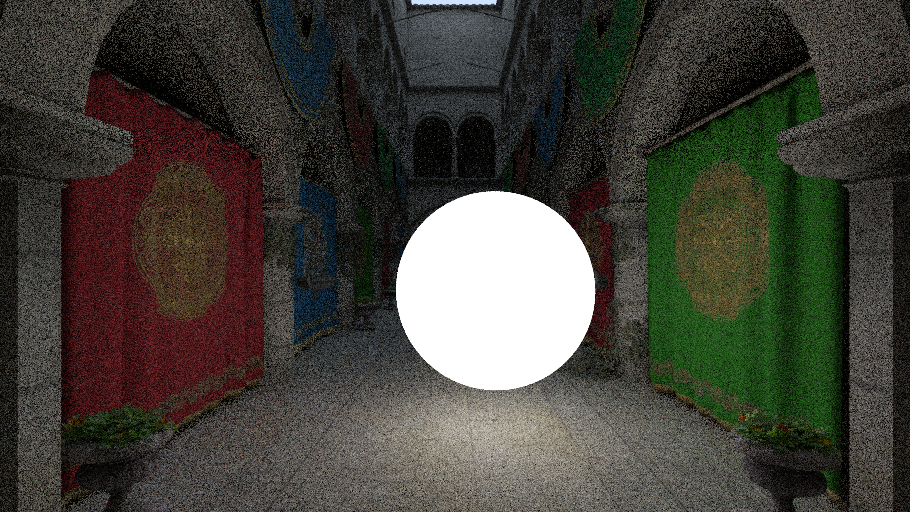
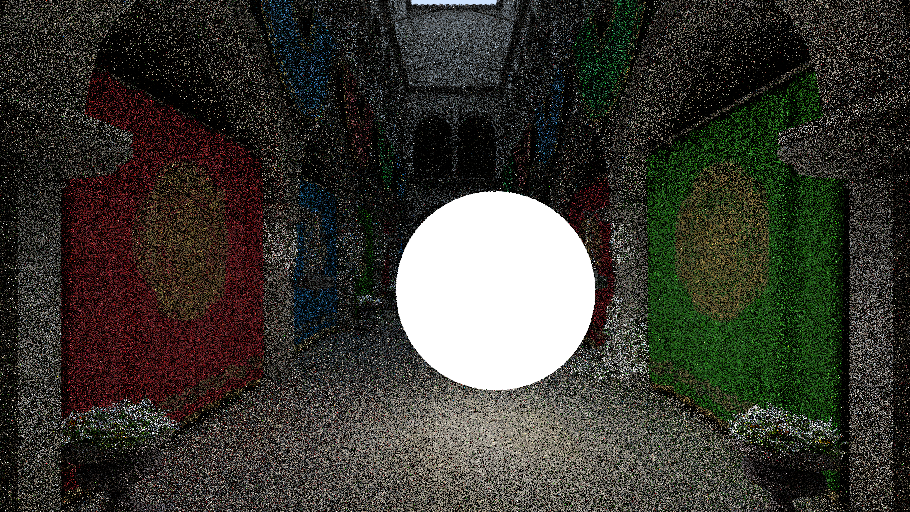
Added pdfs for triangle and sphere

diff --git a/src/engine/renderer.rs b/src/engine/renderer.rs
@@ -3,6 +3,7 @@ use crate::engine::render_context::*;
 use crate::engine::math::ray::*;
 use glam::{Vec3A};
 use crate::engine::geometry::bvh::node::*;
+use crate::engine::material::pdf::cosine::*;
 use rand::Rng;
 
 use image::{ImageBuffer};
@@ -10,6 +11,7 @@ use std::sync::{Arc};
 use image::{Rgb};
 
 use super::geometry::traceable::Traceable;
+use super::material::pdf::PDF;
 
 use std::thread::{self};
 use std::sync::*;
@@ -46,11 +48,16 @@ impl Renderer {
 
             let hit_result = hit_result_option.unwrap();
 
-            let (mut sample, scatter_option, scattered_pdf, pdf) = hit_result.material.scatter(&ray, &hit_result);
+            let (mut sample, scatter_option, scattered_pdf) = hit_result.material.scatter(&ray, &hit_result);
             let emmission = hit_result.material.emit(&ray, &hit_result);
 
             if scatter_option.is_some() {
-                let scatter = scatter_option.unwrap();
+                let mut scatter = scatter_option.unwrap();
+
+                let cosine_pdf: CosinePDF = PDF::new(hit_result.normal);
+                scatter = cosine_pdf.generate();
+                let pdf = cosine_pdf.value(scatter);
+
                 ray = Ray{origin : hit_result.position, direction : scatter};
 
                 sample = sample * scattered_pdf / pdf;

diff --git a/src/engine/material/pbr_metallic_roughness.rs b/src/engine/material/pbr_metallic_roughness.rs
@@ -101,7 +101,7 @@ pub fn reflect(eye: Vec3A, normal: Vec3A) -> Vec3A {
 }
 
 impl Material for PBRMetallicRoughnessMaterial {
-    fn scatter(&self, ray: &Ray, hit_result : &HitResult) -> (Vec3A, Option<Vec3A>, f32, f32) {
+    fn scatter(&self, ray: &Ray, hit_result : &HitResult) -> (Vec3A, Option<Vec3A>, f32) {
         let mut albedo = Vec4::ONE;
         albedo *= self.base_color_factor;
         albedo = albedo * self.base_color_texture.sample(
@@ -109,7 +109,7 @@ impl Material for PBRMetallicRoughnessMaterial {
             self.base_color_texture.texture.get_uv_by_index(&hit_result.uvs)
         );        
 
-        let (_, mut scattering_direction, mut scattered_pdf, mut pdf) = self.diffuse.scatter(&ray, &hit_result);
+        let (_, mut scattering_direction, scattered_pdf) = self.diffuse.scatter(&ray, &hit_result);
 
         let light_vector = Vec3A::new(0.0, 0.0, 1.0);
 
@@ -122,7 +122,7 @@ impl Material for PBRMetallicRoughnessMaterial {
             scattering_direction = Some(ray.direction);
         }
 
-        return (Vec3A::from(sample), scattering_direction, scattered_pdf, pdf);
+        return (Vec3A::from(sample), scattering_direction, scattered_pdf);
     }
 
     fn emit(&self, ray: &Ray, hit_result : &HitResult) -> Vec3A {

diff --git a/src/engine/geometry/triangle.rs b/src/engine/geometry/triangle.rs
@@ -70,6 +70,22 @@ impl Traceable for Triangle {
             uvs: uvs, front_face: front_face, material: self.material.clone() });
     }
 
+    fn pdf(&self, ray: &Ray, t_min: f32, t_max: f32) -> f32 {
+        let hit_result_option = self.hit(ray, t_min, t_max);
+        if (!hit_result_option.is_some()) {
+            return 0.0;
+        }
+        let hit_result = hit_result_option.unwrap();
+
+        let area = 0.5 * (self.vertices[0].position - self.vertices[1].position).cross(
+            self.vertices[0].position - self.vertices[2].position
+        ).length();
+        let distance_squared = hit_result.t * hit_result.t;
+        let cosine = ray.direction.dot(hit_result.normal).abs();
+
+        return distance_squared / (cosine * area);
+    }
+
     fn bounding_box(&self) -> AABB {
         AABB::new(
             self.vertices[0].position.min(self.vertices[1].position.min(self.vertices[2].position)),

diff --git a/src/engine/material/diffuse.rs b/src/engine/material/diffuse.rs
@@ -10,17 +10,16 @@ pub struct DiffuseMaterial {
 }
 
 impl Material for DiffuseMaterial {
-    fn scatter(&self, ray: &Ray, hit_result : &HitResult) -> (Vec3A, Option<Vec3A>, f32, f32) {
+    fn scatter(&self, ray: &Ray, hit_result : &HitResult) -> (Vec3A, Option<Vec3A>, f32) {
         let onb = ONB::build_from_z(hit_result.normal);
         let scattering_direction = onb.get_position(random_cosine_direction()).normalize();
-        let pdf = scattering_direction.dot(onb.z) / std::f32::consts::PI;
 
         // Scattered PDF
         let cosine = hit_result.normal.dot(scattering_direction);
         let scattered_pdf =  if cosine < 0.0 {0.0} else {cosine / std::f32::consts::PI};
         //
 
-        (Vec3A::ONE, Some(scattering_direction), scattered_pdf, pdf)
+        (Vec3A::ONE, Some(scattering_direction), scattered_pdf)
     }
 
     fn emit(&self, ray: &Ray, hit_result : &HitResult) -> Vec3A {

diff --git a/src/engine/geometry/sphere.rs b/src/engine/geometry/sphere.rs
@@ -48,6 +48,20 @@ impl Traceable for Sphere {
             uvs: Vec::new(), front_face: front_face, material: self.material.clone()})
     }
 
+    fn pdf(&self, ray: &Ray, t_min: f32, t_max: f32) -> f32 {
+        let hit_result_option = self.hit(ray, t_min, t_max);
+        if (!hit_result_option.is_some()) {
+            return 0.0;
+        }
+        let hit_result = hit_result_option.unwrap();
+
+        let area = 4.0 * std::f32::consts::PI * self.radius * self.radius;
+        let distance_squared = hit_result.t * hit_result.t;
+        let cosine = ray.direction.dot(hit_result.normal).abs();
+
+        return distance_squared / (cosine * area);
+    }
+
     fn bounding_box(&self) -> AABB {
         AABB::new(
             self.position - Vec3A::new(self.radius, self.radius, self.radius),

diff --git a/src/engine/material/uv.rs b/src/engine/material/uv.rs
@@ -11,11 +11,11 @@ pub struct UVMaterial {
 }
 
 impl Material for UVMaterial {
-    fn scatter(&self, ray: &Ray, hit_result : &HitResult) -> (Vec3A, Option<Vec3A>, f32, f32) {
-        let (_, scattering_direction, scattered_pdf, pdf) = self.diffuse.scatter(&ray, &hit_result);
+    fn scatter(&self, ray: &Ray, hit_result : &HitResult) -> (Vec3A, Option<Vec3A>, f32) {
+        let (_, scattering_direction, scattered_pdf) = self.diffuse.scatter(&ray, &hit_result);
 
         let sample = Vec3A::new(hit_result.uvs[0].x, hit_result.uvs[0].y, 1.0 - hit_result.uvs[0].x - hit_result.uvs[0].y);
-        (sample, scattering_direction, scattered_pdf, pdf)
+        (sample, scattering_direction, scattered_pdf)
     }
 
     fn emit(&self, ray: &Ray, hit_result : &HitResult) -> Vec3A {

diff --git a/src/engine/material/pdf/cosine.rs b/src/engine/material/pdf/cosine.rs
@@ -1,0 +1,29 @@
+use crate::engine::onb::*;
+use crate::engine::math::utils::*;
+use glam::{Vec2, Vec3A, Vec4};
+
+use super::*;
+
+pub struct CosinePDF {
+    base_pdf: PDFBase,
+}
+
+impl PDF for CosinePDF {
+    fn new(forward: Vec3A) -> Self {
+        Self {
+            base_pdf: PDFBase { basis: ONB::build_from_z(forward) }
+        }
+    }
+
+    fn value(&self, direction: Vec3A) -> f32 {
+        let cosine = self.base_pdf.basis.z.dot(direction);
+        let scattered_pdf =  if cosine < 0.0 {0.0} else {cosine / std::f32::consts::PI};
+
+        scattered_pdf
+    }
+
+    fn generate(&self) -> Vec3A {
+        let scattering_direction = self.base_pdf.basis.get_position(random_cosine_direction()).normalize();
+        scattering_direction
+    }
+}

diff --git a/src/engine/material/normal.rs b/src/engine/material/normal.rs
@@ -12,10 +12,10 @@ pub struct NormalMaterial {
 }
 
 impl Material for NormalMaterial {
-    fn scatter(&self, ray: &Ray, hit_result : &HitResult) -> (Vec3A, Option<Vec3A>, f32, f32) {
-        let (_, scattering_direction, scattered_pdf, pdf) = self.diffuse.scatter(&ray, &hit_result);
+    fn scatter(&self, ray: &Ray, hit_result : &HitResult) -> (Vec3A, Option<Vec3A>, f32) {
+        let (_, scattering_direction, scattered_pdf) = self.diffuse.scatter(&ray, &hit_result);
         let sample =  0.5 * (hit_result.normal + Vec3A::ONE);
-        (sample, scattering_direction, scattered_pdf, pdf)
+        (sample, scattering_direction, scattered_pdf)
     }
 
     fn emit(&self, ray: &Ray, hit_result : &HitResult) -> Vec3A {

diff --git a/src/engine/material/pbr.rs b/src/engine/material/pbr.rs
@@ -43,10 +43,10 @@ pub fn reflect(eye: Vec3A, normal: Vec3A) -> Vec3A {
 }
 
 impl Material for PBRMaterial {
-    fn scatter(&self, ray: &Ray, hit_result : &HitResult) -> (Vec3A, Option<Vec3A>, f32, f32) {
-        let (sample, scatter_direction, scattered_pdf, pdf) = self.pbr_metallic_roughness.scatter(ray, hit_result);
+    fn scatter(&self, ray: &Ray, hit_result : &HitResult) -> (Vec3A, Option<Vec3A>, f32) {
+        let (sample, scatter_direction, scattered_pdf) = self.pbr_metallic_roughness.scatter(ray, hit_result);
 
-        (sample, scatter_direction, scattered_pdf, pdf)
+        (sample, scatter_direction, scattered_pdf)
     }
 
     fn emit(&self, ray: &Ray, hit_result : &HitResult) -> Vec3A {

diff --git a/src/engine/material/refraction.rs b/src/engine/material/refraction.rs
@@ -38,11 +38,11 @@ fn refract(ray: &Ray, hit_result: &HitResult, ior: f32) -> Vec3A {
 }
 
 impl Material for RefractionMaterial {
-    fn scatter(&self, ray: &Ray, hit_result : &HitResult) -> (Vec3A, Option<Vec3A>, f32, f32) {
+    fn scatter(&self, ray: &Ray, hit_result : &HitResult) -> (Vec3A, Option<Vec3A>, f32) {
         let ior = ior(self.refraction_type, hit_result.front_face);
 
         let direction = refract(ray, hit_result, ior);
-        (Vec3A::ONE, Some(direction.normalize()), 1.0, 1.0)
+        (Vec3A::ONE, Some(direction.normalize()), 1.0)
     }
 
     fn emit(&self, ray: &Ray, hit_result : &HitResult) -> Vec3A {

diff --git a/src/engine/material/metal.rs b/src/engine/material/metal.rs
@@ -14,9 +14,9 @@ pub fn reflect(eye: Vec3A, normal: Vec3A) -> Vec3A {
 }
 
 impl Material for MetalMaterial {
-    fn scatter(&self, ray: &Ray, hit_result : &HitResult) -> (Vec3A, Option<Vec3A>, f32, f32) {
+    fn scatter(&self, ray: &Ray, hit_result : &HitResult) -> (Vec3A, Option<Vec3A>, f32) {
         let direction = reflect(ray.direction, hit_result.normal) + (1.0 - self.metalness) * random_in_unit_sphere();
-        (Vec3A::ONE, Some(direction.normalize()), 1.0, 1.0)
+        (Vec3A::ONE, Some(direction.normalize()), 1.0)
     }
 
     fn emit(&self, ray: &Ray, hit_result : &HitResult) -> Vec3A {

diff --git a/src/engine/material/mod.rs b/src/engine/material/mod.rs
@@ -7,6 +7,8 @@ pub mod refraction;
 pub mod pbr;
 pub mod pbr_metallic_roughness;
 
+pub mod pdf;
+
 use crate::engine::math::ray::*;
 use glam::{Vec3A};
 use crate::engine::geometry::traceable::*;
@@ -17,7 +19,6 @@ pub trait Material {
     fn scatter(&self, ray: &Ray, hit_result : &HitResult) -> (
         Vec3A /* Attenuation */, 
         Option<Vec3A> /* Scatter */,
-        f32 /* Scattered PDF */,
-        f32 /* Direction PDF */);
+        f32 /* Scattered PDF */);
     fn emit(&self, ray: &Ray, hit_result : &HitResult) -> Vec3A;
 }
